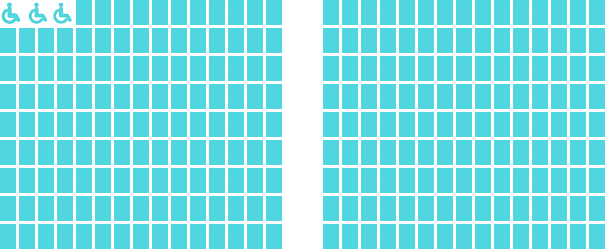
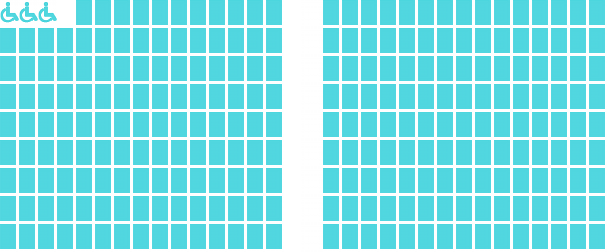
Selección de butacas de discapacitados
git-svn-id: http://jira.uji.es/repos/uji/PAR/uji-par/trunk@16784 e6edf6fb-f266-4316-afb4-e53d95876a76

Changed region(s): [[0.0, 0.0, 0.125, 0.1111]]

diff --git a/uji-par-web/plantillas/butacasFragment.html b/uji-par-web/plantillas/butacasFragment.html
@@ -45,6 +45,8 @@
 	<div id="localizacion_anfiteatro" class="entrada-plano">
 		
 		<map name="mapAnfiteatro">
+<area shape="rect" coords="19,0,38,29" href="javascript:Butacas.selecciona('discapacitados3', 9, 1, 19, 0)" />		
+<area shape="rect" coords="0,28,19,56" href="javascript:Butacas.selecciona('anfiteatro', 8, 18, 0, 28)" />		
 <area shape="rect" coords="0,28,19,56" href="javascript:Butacas.selecciona('anfiteatro', 8, 18, 0, 28)" />
 <area shape="rect" coords="19,28,38,56" href="javascript:Butacas.selecciona('anfiteatro', 8, 16, 19, 28)" />
 <area shape="rect" coords="38,28,57,56" href="javascript:Butacas.selecciona('anfiteatro', 8, 14, 38, 28)" />
@@ -201,10 +203,10 @@
 	<div id="localizacion_platea1" class="entrada-plano">
 		<map name="mapPlatea1">
 
-<area shape="rect" coords="0,0,19,28" href="javascript:Butacas.selecciona('platea1', 9, 30, 0, 0)" />
-<area shape="rect" coords="19,0,38,28" href="javascript:Butacas.selecciona('platea1', 9, 28, 19, 0)" />
-<area shape="rect" coords="38,0,57,28" href="javascript:Butacas.selecciona('platea1', 9, 26, 38, 0)" />
-<area shape="rect" coords="57,0,76,28" href="javascript:Butacas.selecciona('platea1', 9, 24, 57, 0)" />
+<area shape="rect" coords="0,0,19,28" href="javascript:Butacas.selecciona('discapacitados1', 9, 30, 0, 0)" />
+<area shape="rect" coords="19,0,38,28" href="javascript:Butacas.selecciona('discapacitados1', 9, 28, 19, 0)" />
+<area shape="rect" coords="38,0,57,28" href="javascript:Butacas.selecciona('discapacitados1', 9, 26, 38, 0)" />
+
 <area shape="rect" coords="76,0,95,28" href="javascript:Butacas.selecciona('platea1', 9, 22, 76, 0)" />
 <area shape="rect" coords="95,0,114,28" href="javascript:Butacas.selecciona('platea1', 9, 20, 95, 0)" />
 <area shape="rect" coords="114,0,133,28" href="javascript:Butacas.selecciona('platea1', 9, 18, 114, 0)" />
@@ -481,6 +483,10 @@
 	
 	<div id="localizacion_platea2" class="entrada-plano">
 		<map name="mapPlatea2">	
+
+<area shape="rect" coords="475,0,494,28" href="javascript:Butacas.selecciona('discapacitados2', 19, 19, 475, 0)" />
+<area shape="rect" coords="494,0,513,28" href="javascript:Butacas.selecciona('discapacitados2', 19, 21, 494, 0)" />
+<area shape="rect" coords="513,0,532,28" href="javascript:Butacas.selecciona('discapacitados2', 19, 23, 513, 0)" />
 
 <area shape="rect" coords="0,28,19,56" href="javascript:Butacas.selecciona('platea2', 18, 24, 0, 28)" />
 <area shape="rect" coords="19,28,38,56" href="javascript:Butacas.selecciona('platea2', 18, 22, 19, 28)" />

diff --git a/uji-par-web/src/main/webapp/js/butacas.js b/uji-par-web/src/main/webapp/js/butacas.js
@@ -43,11 +43,24 @@ Butacas = (function() {
 		return false;
 	}
 	
+	function imagenButaca(butaca)
+	{
+		if (esDiscapacitado(butaca.localizacion))
+			return "seleccionadaDiscapacitado.png";
+		else
+			return "seleccionada.png";
+	}
+	
 	function muestraButacaSeleccionada(butaca) {
-		var butacaSeleccionada = $('<img src="' + baseUrl + '/img/seleccionada.png" class="butaca-seleccionada"/>');
+		var butacaSeleccionada = $('<img src="' + baseUrl + '/img/' + imagenButaca(butaca) + '" class="butaca-seleccionada"/>');
 		butacaSeleccionada.css("left", butaca.x + "px");
 		butacaSeleccionada.css("top", butaca.y + "px");
-		$('#localizacion_' + butaca.localizacion).append(butacaSeleccionada);
+		
+		console.log(butacaSeleccionada);
+		
+		var idDiv = idDivLocalizacion(butaca.localizacion);
+		
+		$('#localizacion_' + idDiv).append(butacaSeleccionada);
 	
 		butacaSeleccionada.click(function() {
 			// console.log("Click sobre seleccionada: ", butaca);
@@ -83,7 +96,7 @@ Butacas = (function() {
 	
 	function refrescaImagen(localizacion)
 	{
-		var imagen = $("#imagen_" + localizacion);
+		var imagen = $("#imagen_" + idDivLocalizacion(localizacion));
 		
 		var url = imagen.attr("src").replace(/\?.*/, "");
 		
@@ -130,6 +143,23 @@ Butacas = (function() {
 		}
 	
 		refrescaEstadoButacas();
+	}
+	
+	function esDiscapacitado(localizacion)
+	{
+		return localizacion.indexOf('discapacitados') == 0;
+	}
+	
+	function idDivLocalizacion(localizacion)
+	{
+		if (localizacion == 'discapacitados1')
+			return 'platea1';
+		else if (localizacion == 'discapacitados2')
+			return 'platea2';
+		else if (localizacion == 'discapacitados3')
+			return 'anfiteatro';
+		else 
+			return localizacion;
 	}
 	
 	function refrescaEstadoButacas()

diff --git a/uji-par-web/src/main/java/es/uji/apps/par/drawer/MapaDrawer.java b/uji-par-web/src/main/java/es/uji/apps/par/drawer/MapaDrawer.java
@@ -32,8 +32,21 @@ public class MapaDrawer
     ButacasService butacasService;
 
     private BufferedImage butacaOcupada;
+    private BufferedImage butacaOcupadaDiscapacitado;
+
+    // Para cuando necesitamos saber el (x, y) que ocupa la butaca en la imagen
     private Map<String, DatosButaca> datosButacas;
     private Map<String, BufferedImage> imagenes;
+
+    private String[] getLocalizacionesEnImagen(String localizacion)
+    {
+        if (localizacion.equals("anfiteatro"))
+            return new String[] { "anfiteatro", "discapacitados3" };
+        else if (localizacion.equals("platea1"))
+            return new String[] { "platea1", "discapacitados1" };
+        else
+            return new String[] { "platea2", "discapacitados2" };
+    }
 
     public ByteArrayOutputStream generaImagen(String imagesPath, long idSesion, String codigoLocalizacion)
             throws IOException
@@ -93,26 +106,40 @@ public class MapaDrawer
         return bos;
     }
 
-    private BufferedImage dibujaButacas(long idSesion, String codigoLocalizacion)
+    private BufferedImage dibujaButacas(long idSesion, String localizacionDeImagen)
     {
-        BufferedImage imgButacas = imagenes.get(codigoLocalizacion);
+        BufferedImage imgButacas = imagenes.get(localizacionDeImagen);
         BufferedImage imgResult = new BufferedImage(imgButacas.getWidth(), imgButacas.getHeight(), imgButacas.getType());
         Graphics2D graphics = imgResult.createGraphics();
         graphics.drawImage(imgButacas, 0, 0, null);
 
-        List<ButacaDTO> butacas = butacasService.getButacas(idSesion, codigoLocalizacion);
-
-        for (ButacaDTO butacaDTO : butacas)
+        for (String localizacion : getLocalizacionesEnImagen(localizacionDeImagen))
         {
-            String key = String.format("%s_%s_%s", butacaDTO.getParLocalizacion().getCodigo(), butacaDTO.getFila(),
-                    butacaDTO.getNumero());
-            DatosButaca butaca = datosButacas.get(key);
+            List<ButacaDTO> butacas = butacasService.getButacas(idSesion, localizacion);
 
-            // Necesitamos saber el (x, y) que ocupa la butaca en la imagen
-            graphics.drawImage(butacaOcupada, butaca.getxIni(), butaca.getyIni(), null);
+            for (ButacaDTO butacaDTO : butacas)
+            {
+                String key = String.format("%s_%s_%s", butacaDTO.getParLocalizacion().getCodigo(), butacaDTO.getFila(),
+                        butacaDTO.getNumero());
+                DatosButaca butaca = datosButacas.get(key);
+
+                BufferedImage imagenOcupada;
+
+                if (esDiscapacitado(butaca))
+                    imagenOcupada = butacaOcupadaDiscapacitado;
+                else
+                    imagenOcupada = butacaOcupada;
+
+                graphics.drawImage(imagenOcupada, butaca.getxIni(), butaca.getyIni(), null);
+            }
         }
 
         return imgResult;
+    }
+
+    private boolean esDiscapacitado(DatosButaca butaca)
+    {
+        return butaca.getLocalizacion().startsWith("discapacitados");
     }
 
     private void cargaImagenes(String imagesPath) throws IOException
@@ -129,8 +156,12 @@ public class MapaDrawer
 
         if (butacaOcupada == null)
         {
-            File f = new File(imagesPath + "/img/ocupada.png");
-            butacaOcupada = ImageIO.read(f);
+            butacaOcupada = ImageIO.read(new File(imagesPath + "/img/ocupada.png"));
+        }
+
+        if (butacaOcupadaDiscapacitado == null)
+        {
+            butacaOcupadaDiscapacitado = ImageIO.read(new File(imagesPath + "/img/ocupadaDiscapacitado.png"));
         }
     }
 
